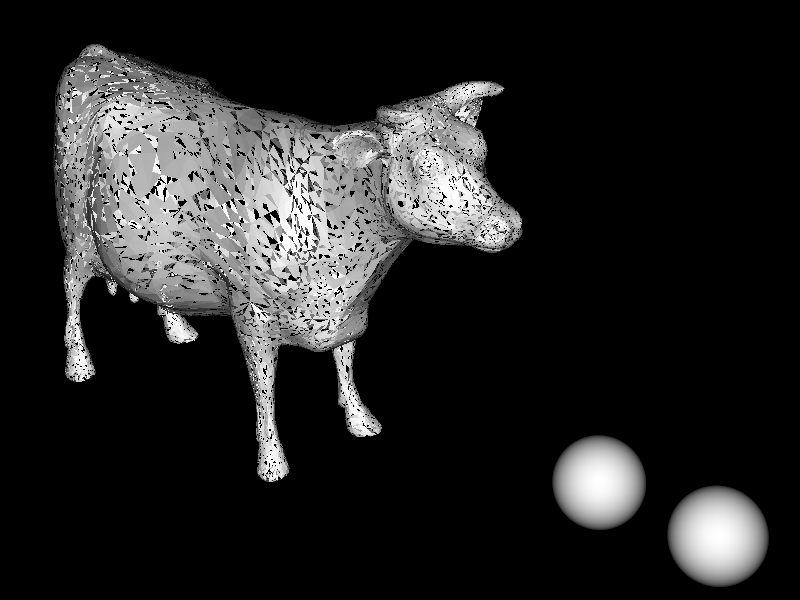
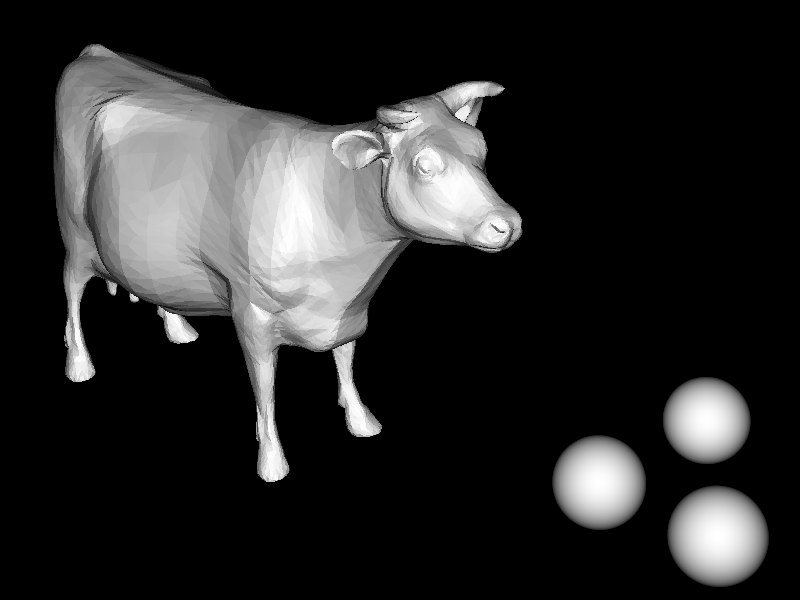
Workingingianginadpgidapi

diff --git a/rt/bbox.cpp b/rt/bbox.cpp
@@ -3,6 +3,8 @@
 #include <rt/ray.h>
 #include <core/point.h>
 #include <algorithm>
+#include<tuple>
+
 
 const float maxFloat = std::numeric_limits<float>::max();
 const float minFloat = std::numeric_limits<float>::min();
@@ -84,7 +86,7 @@ namespace rt
 		float tyMax = std::max(ty0, ty1);
 
 		// Are these the two t0's and t1's required? Because there are two more of them as well.
-		if ((minT > tyMax + 0.5) || (tyMin > maxT + 0.5))
+		if ((minT > tyMax) || (tyMin > maxT))
 			return std::tuple<float, float, bool>( tyMin, maxT, false);
 
 		if (tyMin > minT)
@@ -104,7 +106,7 @@ namespace rt
 		float tzMax = std::max(tz0, tz1);
 
 		// Are these the two t0's and t1's required? Because there are two more of them as well.
-		if ((minT > tzMax + 0.5) || (tzMin > maxT + 0.5))
+		if ((minT > tzMax) || (tzMin > maxT))
 			return std::tuple<float, float, bool>(tzMin, maxT, false);
 
 		if (tzMin > minT)
@@ -124,6 +126,39 @@ namespace rt
 			minT = maxT;
 
 		return std::tuple<float, float, bool>(minT, maxT, true);
+	}
+
+
+	void BBox::Inflate(float factor)
+	{
+		float width = maxCorner.x - minCorner.x;
+		float length = maxCorner.y - minCorner.y;
+		float height = maxCorner.z - minCorner.z;
+		Vector inflationVector = Vector(0, 0, 0);
+		if (width < length)
+		{
+			if (width < height)
+			{
+				inflationVector = Vector(factor, 0, 0);
+			}
+			else
+			{
+				inflationVector = Vector(0, 0, factor);
+			}
+		}
+		else
+		{
+			if (length < height)
+			{
+				inflationVector = Vector(0, factor, 0);
+			}
+			else
+			{
+				inflationVector = Vector(0, 0, factor);
+			}
+		}
+		this->minCorner = this->minCorner - inflationVector;
+		this->maxCorner = this->maxCorner + inflationVector;
 	}
 
 	bool BBox::isUnbound()

diff --git a/main/a_indexing.cpp b/main/a_indexing.cpp
@@ -6,6 +6,7 @@
 #include <rt/renderer.h>
 #include <rt/loaders/obj.h>
 #include <rt/groups/bvh.h>
+#include <rt/groups/simplegroup.h>
 #include <rt/groups/kdtree.h>
 #include <rt/solids/sphere.h>
 #include <rt/cameras/perspective.h>
@@ -16,12 +17,13 @@ using namespace rt;
 void a_indexing() {
     Image img(800, 600);
 
+//	SimpleGroup* scene = new SimpleGroup();
     BVH* scene = new BVH();
     scene->add(new Sphere(Point(2.5f,  .5f,  -1), 0.5  , nullptr, nullptr));
     scene->add(new Sphere(Point(2.5f,  -1.f,  -1), 0.5, nullptr, nullptr));
     scene->add(new Sphere(Point(4.5f,  .5f,  -1), 0.5 , nullptr, nullptr));
 
-    loadOBJ(scene, "models/", "cow.obj");
+	loadOBJ(scene, "models/", "cow.obj");
   
 	scene->rebuildIndex();
     World world;

diff --git a/rt/groups/bvh.cpp b/rt/groups/bvh.cpp
@@ -1,6 +1,7 @@
 #include "bvh.h"
 #include<rt/bbox.h>
 #include<rt/intersection.h>
+#include<tuple>
 
 namespace rt
 {
@@ -32,7 +33,7 @@ namespace rt
 		if(node->isLeaf)
 		{
 			Intersection smallestIntersection;
-			for (unsigned int i = node->primitiveStartIndex; i < node->primitiveEndIncludingIndex; ++i)
+			for (unsigned int i = node->primitiveStartIndex; i <= node->primitiveEndIncludingIndex; ++i)
 			{
 				Intersection intersection = unsortedList[i]->intersect(ray, previousBestDistance);
 				if (intersection && (intersection.distance < previousBestDistance))

diff --git a/rt/bbox.h b/rt/bbox.h
@@ -24,6 +24,7 @@ public:
 
 	void extend(const Point& point);
 	void extend(const BBox& bbox);
+	void BBox::Inflate(float factor);
 
 	Vector diagonal() const {
 		if (this->isEmpty)

diff --git a/core/point.cpp b/core/point.cpp
@@ -1,4 +1,5 @@
 #include "point.h"
+#include<algorithm>
 #include "vector.h"
 
 namespace rt
